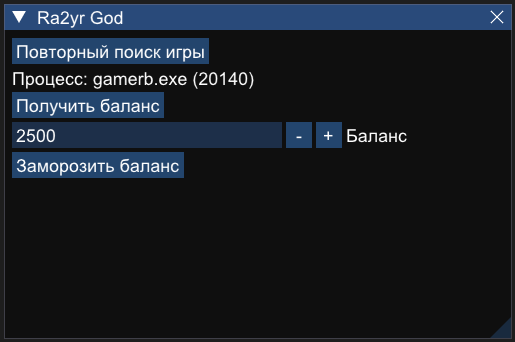
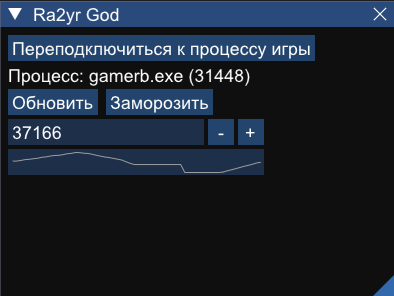
Обновлен интерфейс
- Исправлено название кнопок и всплывающих окон.
- Открытие дочерних окон теперь выполняется по центру родительского окна.
- Автоматическое обновление поля с балансом игрока.
- При активизации элемента с балансом игрока для редактирования перестает выполняться автообновление значения в нем.
- Добавлен график динамики изменения баланса игрока со временем.
- Добавлены подсказки при наведении на кнопки формы.
- Небольшой рефакторинг.
- Обновлено описание проекта.

Changed region(s): [[0.0, 0.0, 1.0, 1.0]]

diff --git a/src/Ra2yrGod/Application.cpp b/src/Ra2yrGod/Application.cpp
@@ -1,16 +1,18 @@
 #include "Application.h"
-
 #include "Ra2yrGodImpl.h"
+
+#include <ctime>
 
 #include "imgui.h"
 
 namespace Ra2yrGod
 {
     static Ra2yrGodImpl::Ra2yrGod god;
-
     static bool windowsShow = true;
-
     static int playerMoney = -1;
+    static time_t lastMoneyCheck;
+    static float balanceHistory[60] = {};
+    static int balanceHistoryItem = 0;
 
     void renderUI(HWND hwnd)
     {
@@ -25,11 +27,11 @@ namespace Ra2yrGod
         std::string mainCommandLabel;
         if (processConnected)
         {
-            mainCommandLabel = "Повторный поиск игры";
+            mainCommandLabel = "Переподключиться к процессу игры";
         }
         else
         {
-            mainCommandLabel = "Найти игру";
+            mainCommandLabel = "Подключиться к процессу игры";
         }
 
         if (ImGui::Button(mainCommandLabel.c_str()))
@@ -38,16 +40,28 @@ namespace Ra2yrGod
             processConnected = god.processConnected(true);
 
             playerMoney = god.getPlayerMoney();
+            time(&lastMoneyCheck);
 
-            ImGui::OpenPopup("Поиск игры");
+            ImGui::OpenPopup("Подключение##ProcessConnect");
         }
-        if (ImGui::BeginPopupModal("Поиск игры", NULL, ImGuiWindowFlags_AlwaysAutoResize))
+
+        // Модальное окно открываем по центру родительского
+        ImVec2 parentPos = ImGui::GetWindowPos();
+        ImVec2 parentSize = ImGui::GetWindowSize();
+        ImVec2 modalSize(300, 150);
+        ImVec2 modalPos = ImVec2(
+            parentPos.x + (parentSize.x - modalSize.x) * 0.5f,
+            parentPos.y + (parentSize.y - modalSize.y) * 0.5f
+        );
+        ImGui::SetNextWindowPos(modalPos, ImGuiCond_Appearing);
+        ImGui::SetNextWindowSize(modalSize, ImGuiCond_Appearing);
+        if (ImGui::BeginPopupModal("Подключение##ProcessConnect", NULL, ImGuiWindowFlags_AlwaysAutoResize))
         {
             int processId = god.getProcessId();
             std::string processName = god.getProcessName();
             if (processId > 0)
             {
-                ImGui::Text("Процесс игры успешно найден!\n\n%s (%d)", processName.c_str(), processId);
+                ImGui::Text("Процесс игры успешно подключен!\n\n%s (%d)", processName.c_str(), processId);
             }
             else
             {
@@ -66,53 +80,59 @@ namespace Ra2yrGod
         if (processConnected)
         {
             ImGui::Text("Процесс: %s (%d)", god.getProcessName().c_str(), god.getProcessId());
-
-            if (ImGui::Button("Получить баланс"))
+                        
+            if (ImGui::Button("Обновить##UpdateBalance"))
             {
                 playerMoney = god.getPlayerMoney();
-
-                ImGui::OpenPopup("Получить баланс");
+                time(&lastMoneyCheck);
             }
+            if (ImGui::IsItemHovered())
+                ImGui::SetTooltip("Обновить данные о текущем балансе игрока.");
 
-            if (ImGui::InputInt("Баланс", &playerMoney, 1, 1000))
-            {
-                god.setPlayerMoney(playerMoney);
-            };
-
-            if (ImGui::BeginPopupModal("Получить баланс", NULL, ImGuiWindowFlags_AlwaysAutoResize))
-            {
-                if (playerMoney >= 0)
-                {
-                    ImGui::Text("Текущий баланс игрока: %d", playerMoney);
-                }
-                else
-                {
-                    ImGui::Text("Не удалось определить баланс игрока!");
-                }
-
-                ImGui::Separator();
-
-                if (ImGui::Button("OK", ImVec2(120, 0))) { ImGui::CloseCurrentPopup(); }
-                ImGui::SetItemDefaultFocus();
-                ImGui::SameLine();
-
-                ImGui::EndPopup();
-            }
-
+            ImGui::SameLine();
             std::string frozenBalanceLabel;
             if (god.playerMoneyFrozenState())
             {
-                frozenBalanceLabel = "Разморозить баланс";
+                frozenBalanceLabel = "Разморозить";
             }
             else
             {
-                frozenBalanceLabel = "Заморозить баланс";
+                frozenBalanceLabel = "Заморозить";
             }
+            frozenBalanceLabel += "##FreezeBalance";
             if (ImGui::Button(frozenBalanceLabel.c_str()))
             {
                 bool playerMoneyFrozen = !god.playerMoneyFrozenState();
                 god.freezePlayerMoney(playerMoneyFrozen, playerMoney);
             }
+            if (ImGui::IsItemHovered())
+                ImGui::SetTooltip("\"Заморозить\" текущий баланс игрока.");
+                        
+            if (ImGui::InputInt("##Balance", &playerMoney, 1, 1000))
+            {
+                god.setPlayerMoney(playerMoney);
+            };            
+            if (!ImGui::IsItemActivated() && !ImGui::IsItemFocused())
+            {
+                // Раз в секунду обновляем информацию о текущем балансе,
+                // если элемент не активен в данный момент.
+                time_t currentDateTime;
+                time(&currentDateTime);
+                int lastCheckTimeLeftSec = std::difftime(currentDateTime, lastMoneyCheck);
+                if (lastCheckTimeLeftSec >= 1)
+                {
+                    playerMoney = god.getPlayerMoney();
+                    time(&lastMoneyCheck);
+
+                    balanceHistoryItem++;
+                    if (balanceHistoryItem > 60)
+                        balanceHistoryItem = 1;
+                    balanceHistory[balanceHistoryItem - 1] = playerMoney;                    
+                }
+            }
+            if (ImGui::IsItemHovered())
+                ImGui::SetTooltip("Денежный баланс игрока.");
+            ImGui::PlotLines("##BalanceStatistic", balanceHistory, 60);
         }
 
         ImGui::End();
